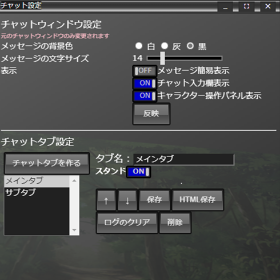
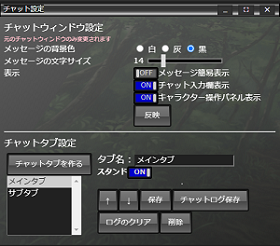
ヘルプ アップデート

diff --git a/src/app/component/help/help-chat/help-chat.component.html b/src/app/component/help/help-chat/help-chat.component.html
@@ -39,11 +39,11 @@
       チャットウィンドウ設定<br/>
       自分のチャットウィンドウ個別に対する設定です
       <ul>
-        <li>メッセージの背景色：<br/>メッセージを個別の宛先に贈ります。</li>
-        <li>メッセージのフォントサイズ：<br/>ダイスボットを選択します。</li>
-        <li>メッセージ簡易表示：<br/>ゲームキャラクターのみ。コマで使用している画像を立ち絵に使用します。</li>
-        <li>チャット入力欄表示：<br/>ゲームキャラクターのみ。どの立ち絵を使うか選択します。</li>
-        <li>キャラクター操作パネル表示：<br/>ゲームキャラクターのみ。立ち絵の位置を変更します。</li>
+        <li>メッセージの背景色：<br/>チャットウィンドウの背景色を変更ます。</li>
+        <li>メッセージのフォントサイズ：<br/>チャットの文字サイズを変更します</li>
+        <li>メッセージ簡易表示：<br/>発言者とテキストのみの簡素なチャットログ表示に変更します。</li>
+        <li>チャット入力欄表示：<br/>チャット入力欄の表示/非表示を切り替えます。</li>
+        <li>キャラクター操作パネル表示：<br/>チャットウィンドウでのキャラクターステータス表示・変更画面の表示/非表示を切り替えます。</li>
       </ul>
       チャットタブ設定<br/>
       <ul>
@@ -51,7 +51,7 @@
         <li>立ち絵表示：<br/>チャットタブで立ち絵を表示する/表示しないを切り替えます。</li>
         <li>↑/↓：<br/>チャットタブの表示順を移動します。</li>
         <li>保存：<br/>チャットタブをZIPで保存します。</li>
-        <li>HTML保存：<br/>チャットタブのログをHTML形式で保存します</li>
+        <li>チャットログ保存：<br/>チャットタブのログを保存します</li>
         <li>ログのクリア：<br/>ルームマスターのみ。チャットタブのログを削除します。</li>
         <li>削除：<br/>ルームマスターのみ。チャットタブを削除します。</li>
       </ul>

diff --git a/src/app/component/help/help-stand/help-stand.component.html b/src/app/component/help/help-stand/help-stand.component.html
@@ -57,8 +57,12 @@
     </div>
     <div class="description">
       立ち絵の表示範囲の設定と、現在設定されている立ち絵位置の確認ができます。<br/>
+      <br/>
       パネルの横幅がそのまま立ち絵の表示範囲になり、<br/>
-      立ち絵が表示されている場所が表示位置になります。<br/>
+      パネルの下端が立ち絵が表示される高さになります。<br/>
+      これは、パネルの幅を変更したり、ドラッグすることで変更可能です。<br/>
+      <br/>
+      パネル内で立ち絵が表示されている場所がその立ち絵の表示位置になります。<br/>
     </div>
   </div>
 </div>

diff --git a/src/app/component/help/help-menu/help-menu.component.html b/src/app/component/help/help-menu/help-menu.component.html
@@ -9,7 +9,7 @@
         <li>画像：画像のアップロード、設定、削除を行います</li>
         <li>ZIP読み込み：保存したZIPファイルを読み込ませます</li>
         <li>保存：ルームデータ全てをローカルに保存します</li>
-        <li>HTML：全てのチャットタブのログをタブごとにHTML形式で保存します</li>
+        <li>チャットログ：全てのチャットタブのログをタブごとに保存します</li>
       </ul>
     </div>
   </div>
